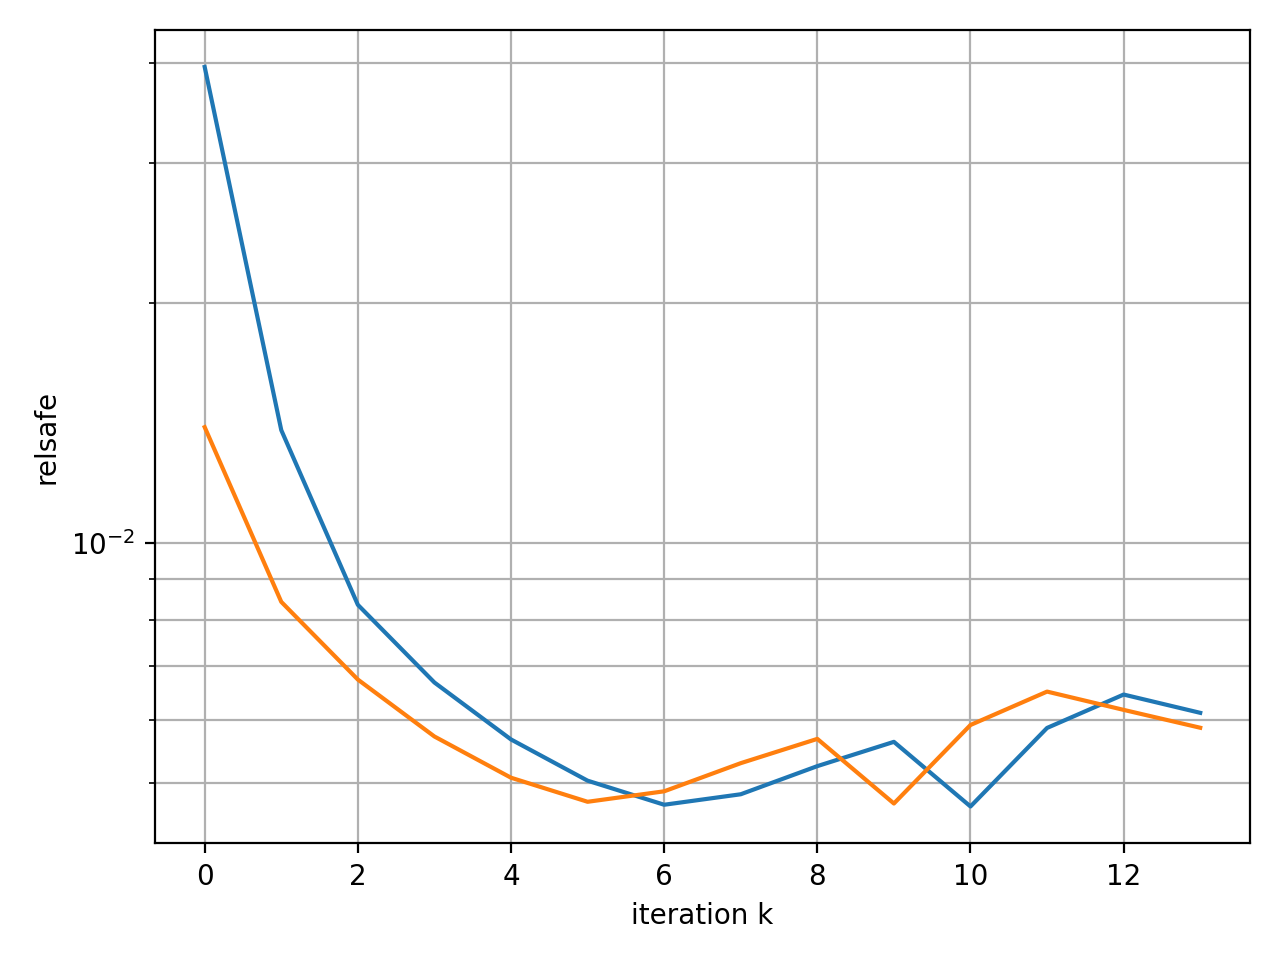
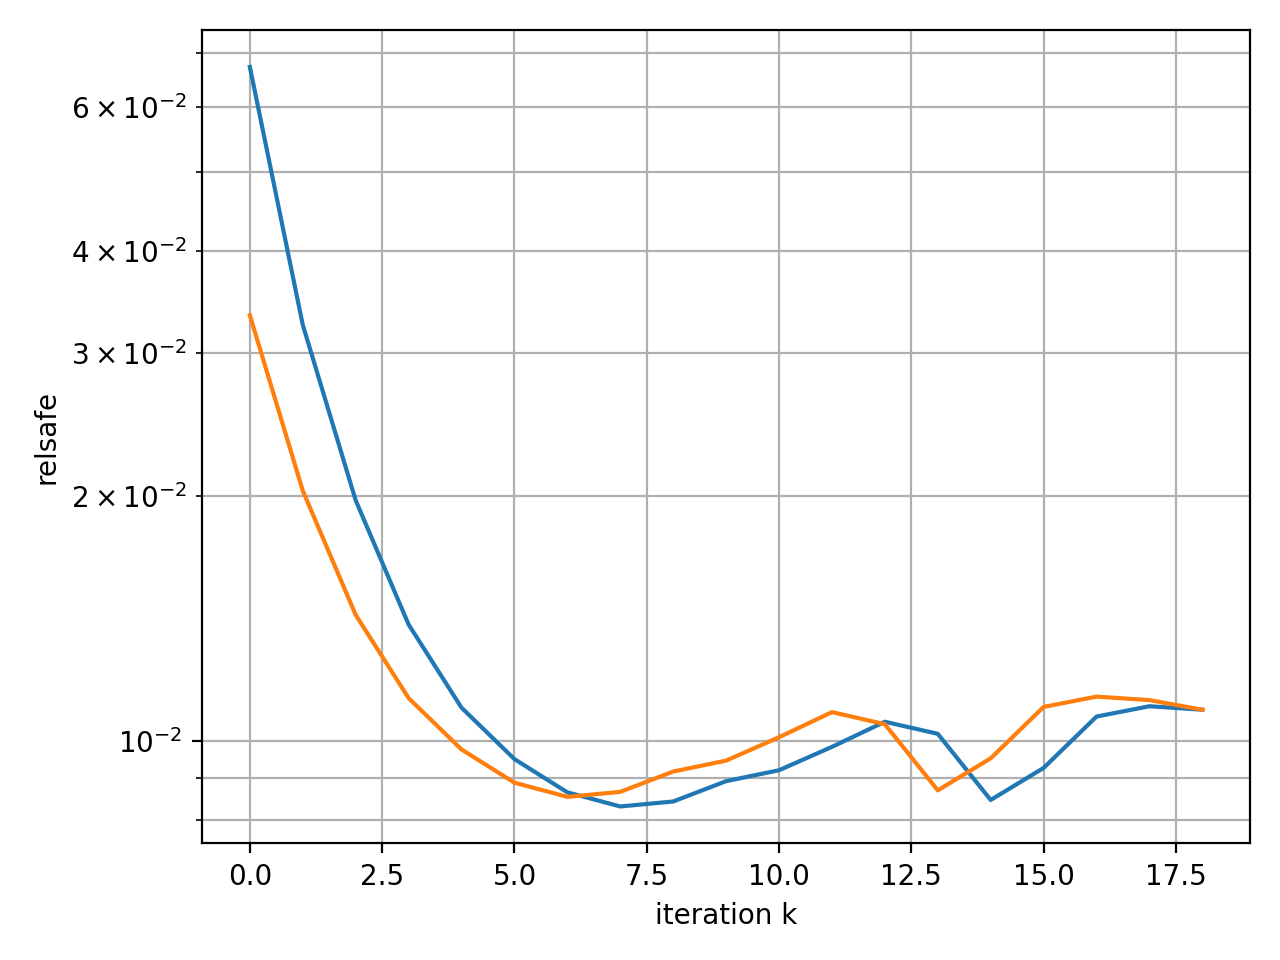
all ircnn works except on inpainting

diff --git a/IRCNN_sigmamap/IRCNN_sigmamap_inpainting.py b/IRCNN_sigmamap/IRCNN_sigmamap_inpainting.py
@@ -214,10 +214,10 @@ def dpir_hqs_inpaint(
         csum_z = 0.0
 
     for k in range(iter_num):
-        #mu = rhos_t[k].view(1, 1, 1, 1)
+        mu = rhos_t[k].view(1, 1, 1, 1)
         sigma_k = sigmas[k]
         #print(f"sigma:{sigma_k}")
-        mu = lambda_pnp/ (sigma_k**2)
+        #mu = lambda_pnp/ (sigma_k**2)
         # x-step (fermé pixelwise)
         xk = (M3 * y + mu * z) / (M3 + mu)
         xk = xk.clamp(0, 1)
@@ -265,13 +265,13 @@ def run_compare(
     clean_path,
     ircnn_ckpt="./weights_ircnn_sigmap/ircnn_sigmap_final.pth",
     out_dir="./results_IRCNN_sigmamap/inpainting_single_v2",
-    missing_ratio=0.15, 
+    missing_ratio=0.45, 
     seed=0,
-    iter_num=15,
+    iter_num=20,
     lambda_pnp=0.23,
     sigma_obs_pix=5.0, 
     modelSigma2_pix=2.55,
-    shepard_window=21, 
+    shepard_window=11, 
     shepard_p=2.0
 ):
     os.makedirs(out_dir, exist_ok=True)
